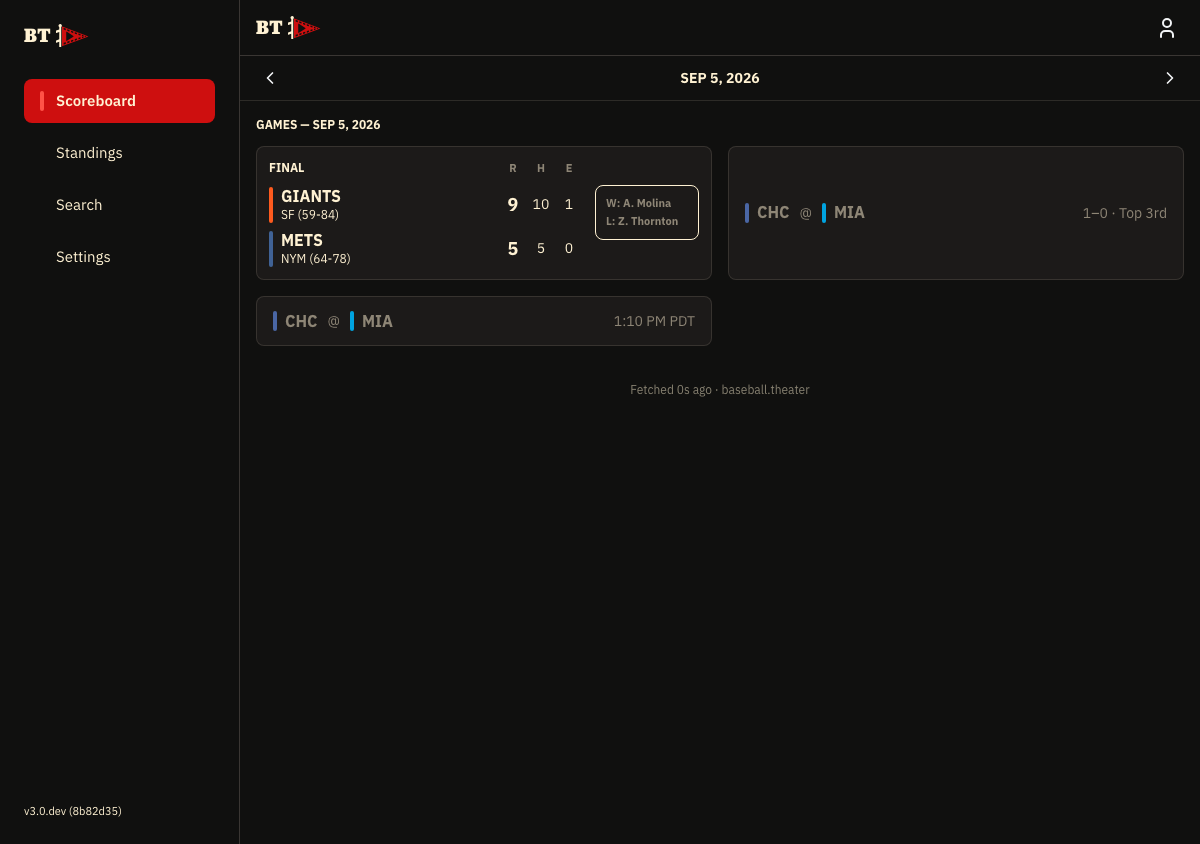
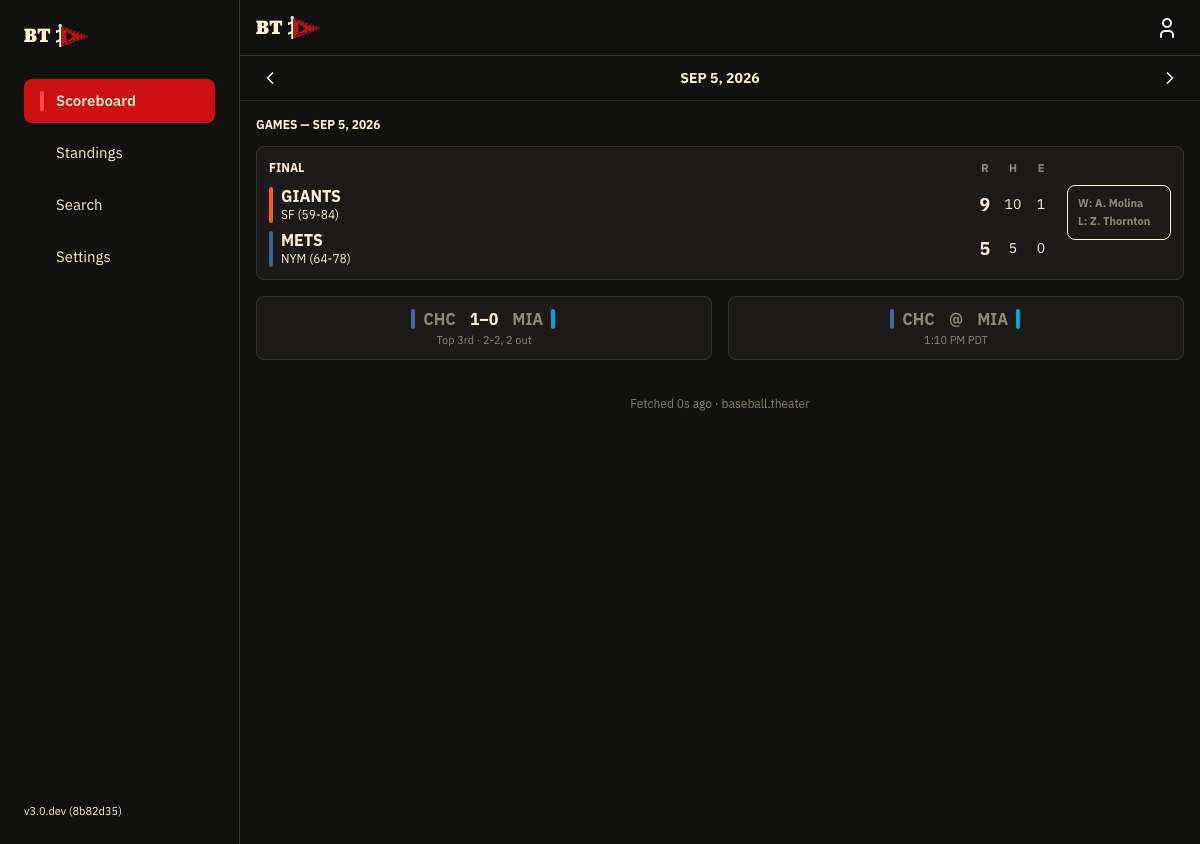
S68 checkpoint (parked for the owner's design match): the owner's collapsed-bar changes (2026-10-30: "on desktop, when the collapsed mode is on, make the favorite one full-width. Also, the collapsed ones shoudl show the score … by centering the score with the teams on either side, like: NYY  5 - 2  
Claude-Session: https://claude.ai/code/session_01FZHj4BTD58DQYzKRj8jroB

diff --git a/web/src/components/scoreboard/CollapseHide.test.tsx b/web/src/components/scoreboard/CollapseHide.test.tsx
@@ -33,6 +33,7 @@ import { clearPersonalData } from "../../storage/storage.js";
 import { jsonResponse } from "../../test/jsonResponse.js";
 import { DEV_ACCOUNT } from "../../test/meApi.js";
 import { viewerTimeZone } from "../../format/datetime.js";
+import type { LayoutVariant } from "../../layout/variant.js";
 import { CollapsedBar } from "./CollapsedBar.js";
 import type { ScoreboardGame } from "./ScoreboardModule.js";
 
@@ -85,7 +86,7 @@ function stubApi(stored: AccountSettings)
 }
 
 /** The scoreboard with the store hydrated from `settings`. */
-async function renderScoreboard(settings: Partial<AccountSettings>)
+async function renderScoreboard(settings: Partial<AccountSettings>, variant: LayoutVariant = "mobile")
 {
 	stubApi({
 		...DEFAULT_SETTINGS,
@@ -98,7 +99,7 @@ async function renderScoreboard(settings: Partial<AccountSettings>)
 			<QueryClientProvider client={createQueryClient()}>
 				<MemoryRouter initialEntries={["/games/2026-09-05"]}>
 					<Routes>
-						<Route path="/games/:date" element={<ScoreboardPage variant="mobile" />} />
+						<Route path="/games/:date" element={<ScoreboardPage variant={variant} />} />
 					</Routes>
 				</MemoryRouter>
 			</QueryClientProvider>
@@ -131,7 +132,8 @@ describe("collapse non-favorites (S68)", () =>
 		expect(b.getAllByTestId("team-edge")).toHaveLength(2);
 		expect(b.getByText("SF")).toBeInTheDocument();
 		expect(b.getByText("NYM")).toBeInTheDocument();
-		expect(b.getByTestId("collapsed-state")).toHaveTextContent("9–5 · Final");
+		expect(b.getByTestId("collapsed-score")).toHaveTextContent("9–5");
+		expect(b.getByTestId("collapsed-state")).toHaveTextContent(/^Final$/);
 	});
 
 	it("expands: choosing a collapsed bar opens the full module", async () =>
@@ -154,7 +156,9 @@ describe("collapse non-favorites (S68)", () =>
 		});
 		const [live, pregame] = screen.getAllByTestId("collapsed-bar");
 		expect(live).toHaveAccessibleName("CHC at MIA, Top 3rd: show the game");
-		expect(within(live!).getByTestId("collapsed-state")).toHaveTextContent("1–0 · Top 3rd");
+		expect(within(live!).getByTestId("collapsed-score")).toHaveTextContent("1–0");
+		expect(within(live!).getByTestId("collapsed-state")).toHaveTextContent("Top 3rd · 2-2, 2 out");
+		expect(within(pregame!).getByTestId("collapsed-score")).toHaveTextContent("@");
 		expect(within(pregame!).getByTestId("collapsed-state")).toHaveTextContent(formatGameTime("2026-09-05T20:10:00Z", viewerTimeZone()));
 		cleanup();
 		render(
@@ -168,6 +172,29 @@ describe("collapse non-favorites (S68)", () =>
 		);
 		expect(screen.getByTestId("collapsed-state")).toBeEmptyDOMElement();
 		expect(screen.getByTestId("collapsed-bar")).toHaveAccessibleName("CHC at MIA: show the game");
+	});
+
+	it("collapsed bar: at medium and desktop the favorite's module spans the row; on mobile, and with nothing collapsed, it doesn't", async () =>
+	{
+		const spans = () => screen.getAllByTestId("scoreboard-module").map((m) => m.closest("[data-testid=scoreboard-wide]") !== null);
+		await renderScoreboard({
+			favoriteTeamIds: [112],
+			collapseNonFavorites: true,
+		}, "desktop");
+		expect(spans()).toEqual([true, true]);
+		cleanup();
+		resetSettings();
+		await renderScoreboard({
+			favoriteTeamIds: [112],
+			collapseNonFavorites: true,
+		});
+		expect(spans()).toEqual([false, false]);
+		cleanup();
+		resetSettings();
+		await renderScoreboard({
+			favoriteTeamIds: [112],
+		}, "desktop");
+		expect(spans()).toEqual([false, false, false]);
 	});
 
 	it("with no favorites nothing collapses", async () =>
@@ -208,6 +235,7 @@ describe("Hide Scores (S68)", () =>
 			hideScores: true,
 		});
 		expect(screen.getByTestId("collapsed-state")).toHaveTextContent(/^Final$/);
+		expect(screen.getByTestId("collapsed-score")).toHaveTextContent("@");
 	});
 
 	it("structure: a masked module keeps the same cells and rows as an unmasked one, so its height doesn't change", async () =>

diff --git a/web/src/components/scoreboard/CollapsedBar.tsx b/web/src/components/scoreboard/CollapsedBar.tsx
@@ -9,30 +9,35 @@ import { useScoresHidden } from "../../settings/useScoresHidden.js";
 import { TeamEdge } from "../team/TeamEdge.js";
 import type { ScoreboardGame } from "./ScoreboardModule.js";
 
-/** A team in the bar: its color edge as a short swatch, then its abbreviation. */
-function Team({ team }: { team: ScoreboardGame["teams"]["away"] })
+/** A team in the bar: its abbreviation with its color swatch on the outer side. */
+function Team({ team, side }: { team: ScoreboardGame["teams"]["away"];
+	side: "away" | "home"; })
 {
 	return (
-		<Group gap={8} wrap="nowrap" h={20}>
-			<TeamEdge teamId={team.id} />
+		<Group gap={8} wrap="nowrap" h={20} justify={side === "away" ? "flex-end" : "flex-start"}>
+			{side === "away" ? <TeamEdge teamId={team.id} /> : null}
 			<Text fw={700} c="var(--bt-muted)">{team.abbreviation}</Text>
+			{side === "home" ? <TeamEdge teamId={team.id} /> : null}
 		</Group>
 	);
 }
 
 /**
  * A non-favorite game folded into a slim bar (S68; shell-scoreboard `scoreboard-collapsed-*`,
- * S56 A2, S57 A3): `LAD @ SD` with each team's color swatch, and on the right the score and
- * state (`2–1 · Bot 7th`, `5–3 · Final`) — the state alone with scores hidden, the start
- * time before first pitch. The inning reads through `inningLabel` inside
- * `collapsedBarState` (`packages/domain`), like every live label. The bar is a button:
- * choosing it opens the full module.
+ * S56 A2, S57 A3), centered in every state (owner, 2026-10-30): `NYY  5–2  BOS`, the
+ * teams either side of the score with their color swatches outside, and a muted line
+ * under it — the inning and count while live, `Final` after, the start time before first
+ * pitch. With scores hidden, or before any runs, `@` stands where the score would. What
+ * it says comes from `collapsedBarState` (`packages/domain`), whose inning reads through
+ * `inningLabel` like every live label. The bar is a button: choosing it opens the full
+ * module.
  */
 export function CollapsedBar({ game, onExpand }: { game: ScoreboardGame;
 	onExpand: () => void; })
 {
 	const hidden = useScoresHidden(game);
-	const state = collapsedBarState(game, hidden) ?? (game.startTime ? formatGameTime(game.startTime, viewerTimeZone()) : "");
+	const bar = collapsedBarState(game, hidden);
+	const state = bar?.state ?? (game.startTime ? formatGameTime(game.startTime, viewerTimeZone()) : "");
 	// Only a live game has an inning to name; a pre-game linescore already says "Top 1st".
 	const live = gamePhase(game.status.codedGameState) === "live" ? inningLabel(game.linescore) : null;
 	return (
@@ -47,22 +52,21 @@ export function CollapsedBar({ game, onExpand }: { game: ScoreboardGame;
 				borderRadius: "var(--mantine-radius-md)",
 				border: "1px solid var(--bt-hairline)",
 				background: "var(--bt-raised)",
-				padding: "14px 16px",
+				padding: "10px 16px",
 			}}
 		>
-			<Group justify="space-between" wrap="nowrap">
-				<Group gap={10} wrap="nowrap">
-					<Team team={game.teams.away} />
-					<Text size="sm" c="var(--bt-muted)">@</Text>
-					<Team team={game.teams.home} />
-				</Group>
-				<Box style={{
-					minWidth: 0,
-				}}
-				>
-					<Text size="sm" c="var(--bt-muted)" truncate data-testid="collapsed-state">{state}</Text>
-				</Box>
-			</Group>
+			<Box style={{
+				display: "grid",
+				gridTemplateColumns: "1fr auto 1fr",
+				alignItems: "center",
+				columnGap: 14,
+			}}
+			>
+				<Team team={game.teams.away} side="away" />
+				<Text fw={700} ta="center" c={bar?.score ? undefined : "var(--bt-muted)"} data-testid="collapsed-score">{bar?.score ?? "@"}</Text>
+				<Team team={game.teams.home} side="home" />
+			</Box>
+			<Text fz={11} c="var(--bt-muted)" ta="center" truncate mih={16} data-testid="collapsed-state">{state}</Text>
 		</UnstyledButton>
 	);
 }

diff --git a/packages/domain/src/scoreboard-rows.ts b/packages/domain/src/scoreboard-rows.ts
@@ -5,6 +5,7 @@
  */
 import { gamePhase } from "./game-phase.js";
 import { inningLabel } from "./inning.js";
+import { countShorthand } from "./slot-occupant.js";
 import type { ScheduleGameSummary } from "./types.js";
 
 export type ScoreboardRow = {
@@ -39,18 +40,32 @@ export function scoreboardRows(games: readonly ScheduleGameSummary[], favoriteTe
 	];
 }
 
+export type CollapsedBarState = {
+	/** `5–2`, centered between the teams; `null` with scores hidden or no runs yet (the bar shows `@`). */
+	score: string | null;
+	/** The muted line under it: `Final`, or the inning and count while live (`Bot 7th · 2-2, 2 out`). */
+	state: string;
+};
+
 /**
- * The right side of a collapsed bar (S56 A2, S57 A3): `2–1 · Bot 7th` while live,
- * `5–3 · Final` after; with scores hidden, the state alone (`Bot 7th`, `Final`). Before
- * first pitch there is no score or inning, so `null` — the bar shows its start time.
+ * What a collapsed bar says (S56 A2, S57 A3; owner, 2026-10-30: "the collapsed ones should
+ * show the score (when it's not hidden) by centering the score with the teams on either
+ * side, like: NYY  5 - 2  BOS, with the BSO subtly under it"). Live: the score, then the
+ * inning and the count (`countShorthand`) under it; final: the score over `Final`. With
+ * scores hidden the score is left out and the state stays — the count too, as on the
+ * module (A3). Before first pitch there is no score or inning, so `null`: the bar shows
+ * its start time.
  */
-export function collapsedBarState(game: Pick<ScheduleGameSummary, "status" | "linescore">, scoresHidden: boolean): string | null
+export function collapsedBarState(game: Pick<ScheduleGameSummary, "status" | "linescore" | "live">, scoresHidden: boolean): CollapsedBarState | null
 {
 	const phase = gamePhase(game.status.codedGameState);
 	if (phase === "pregame") return null;
-	const state = phase === "final" ? "Final" : inningLabel(game.linescore) ?? "Live";
+	const count = phase === "live" && game.live ? countShorthand(game.live) : null;
+	const inning = phase === "final" ? "Final" : inningLabel(game.linescore) ?? "Live";
 	const away = game.linescore?.teams.away.runs;
 	const home = game.linescore?.teams.home.runs;
-	if (scoresHidden || away == null || home == null) return state;
-	return `${away}–${home} · ${state}`;
+	return {
+		score: scoresHidden || away == null || home == null ? null : `${away}–${home}`,
+		state: count ? `${inning} · ${count}` : inning,
+	};
 }

diff --git a/web/src/pages/ScoreboardPage.tsx b/web/src/pages/ScoreboardPage.tsx
@@ -1,5 +1,5 @@
 import {
-	SimpleGrid, Stack, Text,
+	Box, SimpleGrid, Stack, Text,
 } from "@mantine/core";
 import { useState } from "react";
 import { useParams } from "react-router-dom";
@@ -18,7 +18,10 @@ import { useSettings } from "../settings/store.js";
 /**
  * The day's games under their `GAMES — SEP 21, 2026` label, or the empty sentence. With
  * Collapse Non-Favorites on, `scoreboardRows` folds games without a favorite team into
- * `CollapsedBar`s after the favorites; a bar opens to its full module when chosen.
+ * `CollapsedBar`s after the favorites; a bar opens to its full module when chosen. While
+ * anything is collapsed, a favorite's module spans the whole row at medium and desktop
+ * (owner, 2026-10-30: "on desktop, when the collapsed mode is on, make the favorite one
+ * full-width").
  */
 function Games({ day, variant }: { day: ScheduleDayPayload;
 	variant: LayoutVariant; })
@@ -29,15 +32,29 @@ function Games({ day, variant }: { day: ScheduleDayPayload;
 	{
 		return <ViewState kind="empty" message="No games scheduled for this date." />;
 	}
+	const rows = scoreboardRows(day.games, favoriteTeamIds, collapseNonFavorites);
+	const wide = variant !== "mobile" && rows.some((row) => row.collapsed);
 	return (
 		<Stack gap="sm">
 			<Text size="xs" fw={700} tt="uppercase">
 				Games — {formatDate(day.date)}
 			</Text>
 			<SimpleGrid cols={variant === "mobile" ? 1 : 2} spacing="md" verticalSpacing="md" data-testid="scoreboard-grid">
-				{scoreboardRows(day.games, favoriteTeamIds, collapseNonFavorites).map(({ game, collapsed }) => (collapsed && !expanded.has(game.gamePk) ? (
-					<CollapsedBar key={game.gamePk} game={game} onExpand={() => setExpanded(new Set(expanded).add(game.gamePk))} />
-				) : <ScoreboardModule key={game.gamePk} game={game} />))}
+				{rows.map(({ game, collapsed }) =>
+				{
+					if (collapsed && !expanded.has(game.gamePk))
+					{
+						return <CollapsedBar key={game.gamePk} game={game} onExpand={() => setExpanded(new Set(expanded).add(game.gamePk))} />;
+					}
+					return wide && !collapsed ? (
+						<Box key={game.gamePk} data-testid="scoreboard-wide" style={{
+							gridColumn: "1 / -1",
+						}}
+						>
+							<ScoreboardModule game={game} />
+						</Box>
+					) : <ScoreboardModule key={game.gamePk} game={game} />;
+				})}
 			</SimpleGrid>
 		</Stack>
 	);

diff --git a/packages/domain/src/scoreboard-rows.test.ts b/packages/domain/src/scoreboard-rows.test.ts
@@ -67,16 +67,47 @@ const line = (away: number | null, home: number | null, inning = 7, inningState 
 
 describe("collapsedBarState (S68)", () =>
 {
-	it("score and inning while live, score and Final after (A2)", () =>
+	it("score over the inning while live, score over Final after (A2; owner, 2026-10-30)", () =>
 	{
 		expect(collapsedBarState({
 			status: status("I"),
 			linescore: line(2, 1),
-		}, false)).toBe("2–1 · Bot 7th");
+		}, false)).toEqual({
+			score: "2–1",
+			state: "Bot 7th",
+		});
 		expect(collapsedBarState({
 			status: status("F"),
 			linescore: line(5, 3),
-		}, false)).toBe("5–3 · Final");
+		}, false)).toEqual({
+			score: "5–3",
+			state: "Final",
+		});
+	});
+
+	it("live: the count rides under the score with the inning", () =>
+	{
+		expect(collapsedBarState({
+			status: status("I"),
+			linescore: line(2, 1),
+			live: {
+				balls: 2,
+				strikes: 2,
+				outs: 2,
+			} as never,
+		}, false)).toEqual({
+			score: "2–1",
+			state: "Bot 7th · 2-2, 2 out",
+		});
+		expect(collapsedBarState({
+			status: status("F"),
+			linescore: line(5, 3),
+			live: {
+				balls: 2,
+				strikes: 2,
+				outs: 2,
+			} as never,
+		}, false)?.state).toBe("Final");
 	});
 
 	it("with scores hidden, the state only (A3)", () =>
@@ -84,11 +115,17 @@ describe("collapsedBarState (S68)", () =>
 		expect(collapsedBarState({
 			status: status("I"),
 			linescore: line(2, 1),
-		}, true)).toBe("Bot 7th");
+		}, true)).toEqual({
+			score: null,
+			state: "Bot 7th",
+		});
 		expect(collapsedBarState({
 			status: status("F"),
 			linescore: line(5, 3),
-		}, true)).toBe("Final");
+		}, true)).toEqual({
+			score: null,
+			state: "Final",
+		});
 	});
 
 	it("no score yet reads the state alone; before first pitch there is none", () =>
@@ -96,7 +133,10 @@ describe("collapsedBarState (S68)", () =>
 		expect(collapsedBarState({
 			status: status("I"),
 			linescore: null,
-		}, false)).toBe("Live");
+		}, false)).toEqual({
+			score: null,
+			state: "Live",
+		});
 		expect(collapsedBarState({
 			status: status("S"),
 			linescore: null,

diff --git a/e2e/design/S68.spec.ts b/e2e/design/S68.spec.ts
@@ -11,6 +11,10 @@
  *   `-desktop`: Hide Scores on.
  * - `scoreboard-collapsed-hidden-nonotice-mobile` (A3 + A4): both on.
  *
+ * Owner-directed changes from the frames (2026-10-30): every collapsed bar is centered —
+ * `CHC  1–0  MIA`, swatches outside, the inning and count (or Final, or the start time)
+ * muted underneath — and at medium / desktop the favorite's module spans the row.
+ *
  * Expected differences, not judged (owner, 2026-10-28: "Judge only the story's own
  * parts"): the frames' sample day versus the fixture games; the medium and desktop
  * collapsed frames' "Collapsed" label is A2's score and state, and the medium / desktop

diff --git a/docs/v3/BACKLOG.md b/docs/v3/BACKLOG.md
@@ -4112,7 +4112,7 @@ Reuse `shipping_commit` and `reverify_at` from `scripts/lib/reverify.sh` and the
 **Acceptance criteria** (checks `scripts/verify-S68.sh` performs)
 
 1. `scoreboardRows(games, favoriteTeamIds, collapseNonFavorites)` in `packages/domain` marks non-favorite games collapsed; with no favorites nothing collapses (test).
-2. A collapsed bar shows swatch, abbreviation and `{away}–{home} · {state}` (state from S66's `inningLabel`, or `Final`; S56 A2 `scoreboard-collapsed-score-mobile.png`) and expands to the full module on click (RTL).
+2. A collapsed bar is centered in every state: the away team (swatch, abbreviation), the score `{away}–{home}` (`@` before any runs or with scores hidden), the home team, and under it a muted line — the inning (S66's `inningLabel`) and the count while live, `Final` after, the start time before first pitch — and it expands to the full module on click (RTL). At medium and desktop, while any game is collapsed, a favorite's module spans the full row (RTL). (Amended by the owner, 2026-10-30: *"on desktop, when the collapsed mode is on, make the favorite one full-width. Also, the collapsed ones shoudl show the score (when it's not hidden) by centering the score with the teams on either side, like: NYY  5 - 2  BOS, with the BSO subtly under it. The collapsed ones should be centered for all states, with the subtle text under it rather than right-aligned."* It said: "A collapsed bar shows swatch, abbreviation and `{away}–{home} · {state}` (state from S66's `inningLabel`, or `Final`; S56 A2 `scoreboard-collapsed-score-mobile.png`) and expands to the full module on click (RTL).")
 3. With Hide Scores on: R·H·E cells show `–`, records `▒▒-▒▒`, the final slot's pitchers of record (S67) show `W: ▒▒▒▒▒▒` / `L:` / `S:` while the live count, AB / P, probables and pregame win probability stay (shell-scoreboard A3), collapsed bars show swatches, `{AWY} @ {HOM}` and the state only (`Bot 7`, `Final`), and the module height is unchanged (RTL). No "Scores hidden in settings" text renders anywhere (shell-scoreboard A4; grep over `web/src`). One `HiddenValue` component renders the masks (grep).
 4. Whether scores are hidden comes from `shouldHideScores(settings, game?)` in `packages/domain`, which takes the game (when there is one) even though today's on/off setting ignores it (unit-tested on, off, and with and without a game). Web code asks through one hook, `useScoresHidden(game?)`, in `web/src/settings/`. Outside the settings store, the Settings toggle and that function, no file reads the Hide Scores setting itself (grep).
 5. Settings → Game List toggles for Collapse Non-Favorites and Hide Scores save to the account and update a mounted scoreboard without reload (test).

diff --git a/docs/v3/backlog/stories/S68.md b/docs/v3/backlog/stories/S68.md
@@ -53,7 +53,7 @@ scope_files:
 **Acceptance criteria** (checks `scripts/verify-S68.sh` performs)
 
 1. `scoreboardRows(games, favoriteTeamIds, collapseNonFavorites)` in `packages/domain` marks non-favorite games collapsed; with no favorites nothing collapses (test).
-2. A collapsed bar shows swatch, abbreviation and `{away}–{home} · {state}` (state from S66's `inningLabel`, or `Final`; S56 A2 `scoreboard-collapsed-score-mobile.png`) and expands to the full module on click (RTL).
+2. A collapsed bar is centered in every state: the away team (swatch, abbreviation), the score `{away}–{home}` (`@` before any runs or with scores hidden), the home team, and under it a muted line — the inning (S66's `inningLabel`) and the count while live, `Final` after, the start time before first pitch — and it expands to the full module on click (RTL). At medium and desktop, while any game is collapsed, a favorite's module spans the full row (RTL). (Amended by the owner, 2026-10-30: *"on desktop, when the collapsed mode is on, make the favorite one full-width. Also, the collapsed ones shoudl show the score (when it's not hidden) by centering the score with the teams on either side, like: NYY  5 - 2  BOS, with the BSO subtly under it. The collapsed ones should be centered for all states, with the subtle text under it rather than right-aligned."* It said: "A collapsed bar shows swatch, abbreviation and `{away}–{home} · {state}` (state from S66's `inningLabel`, or `Final`; S56 A2 `scoreboard-collapsed-score-mobile.png`) and expands to the full module on click (RTL).")
 3. With Hide Scores on: R·H·E cells show `–`, records `▒▒-▒▒`, the final slot's pitchers of record (S67) show `W: ▒▒▒▒▒▒` / `L:` / `S:` while the live count, AB / P, probables and pregame win probability stay (shell-scoreboard A3), collapsed bars show swatches, `{AWY} @ {HOM}` and the state only (`Bot 7`, `Final`), and the module height is unchanged (RTL). No "Scores hidden in settings" text renders anywhere (shell-scoreboard A4; grep over `web/src`). One `HiddenValue` component renders the masks (grep).
 4. Whether scores are hidden comes from `shouldHideScores(settings, game?)` in `packages/domain`, which takes the game (when there is one) even though today's on/off setting ignores it (unit-tested on, off, and with and without a game). Web code asks through one hook, `useScoresHidden(game?)`, in `web/src/settings/`. Outside the settings store, the Settings toggle and that function, no file reads the Hide Scores setting itself (grep).
 5. Settings → Game List toggles for Collapse Non-Favorites and Hide Scores save to the account and update a mounted scoreboard without reload (test).
